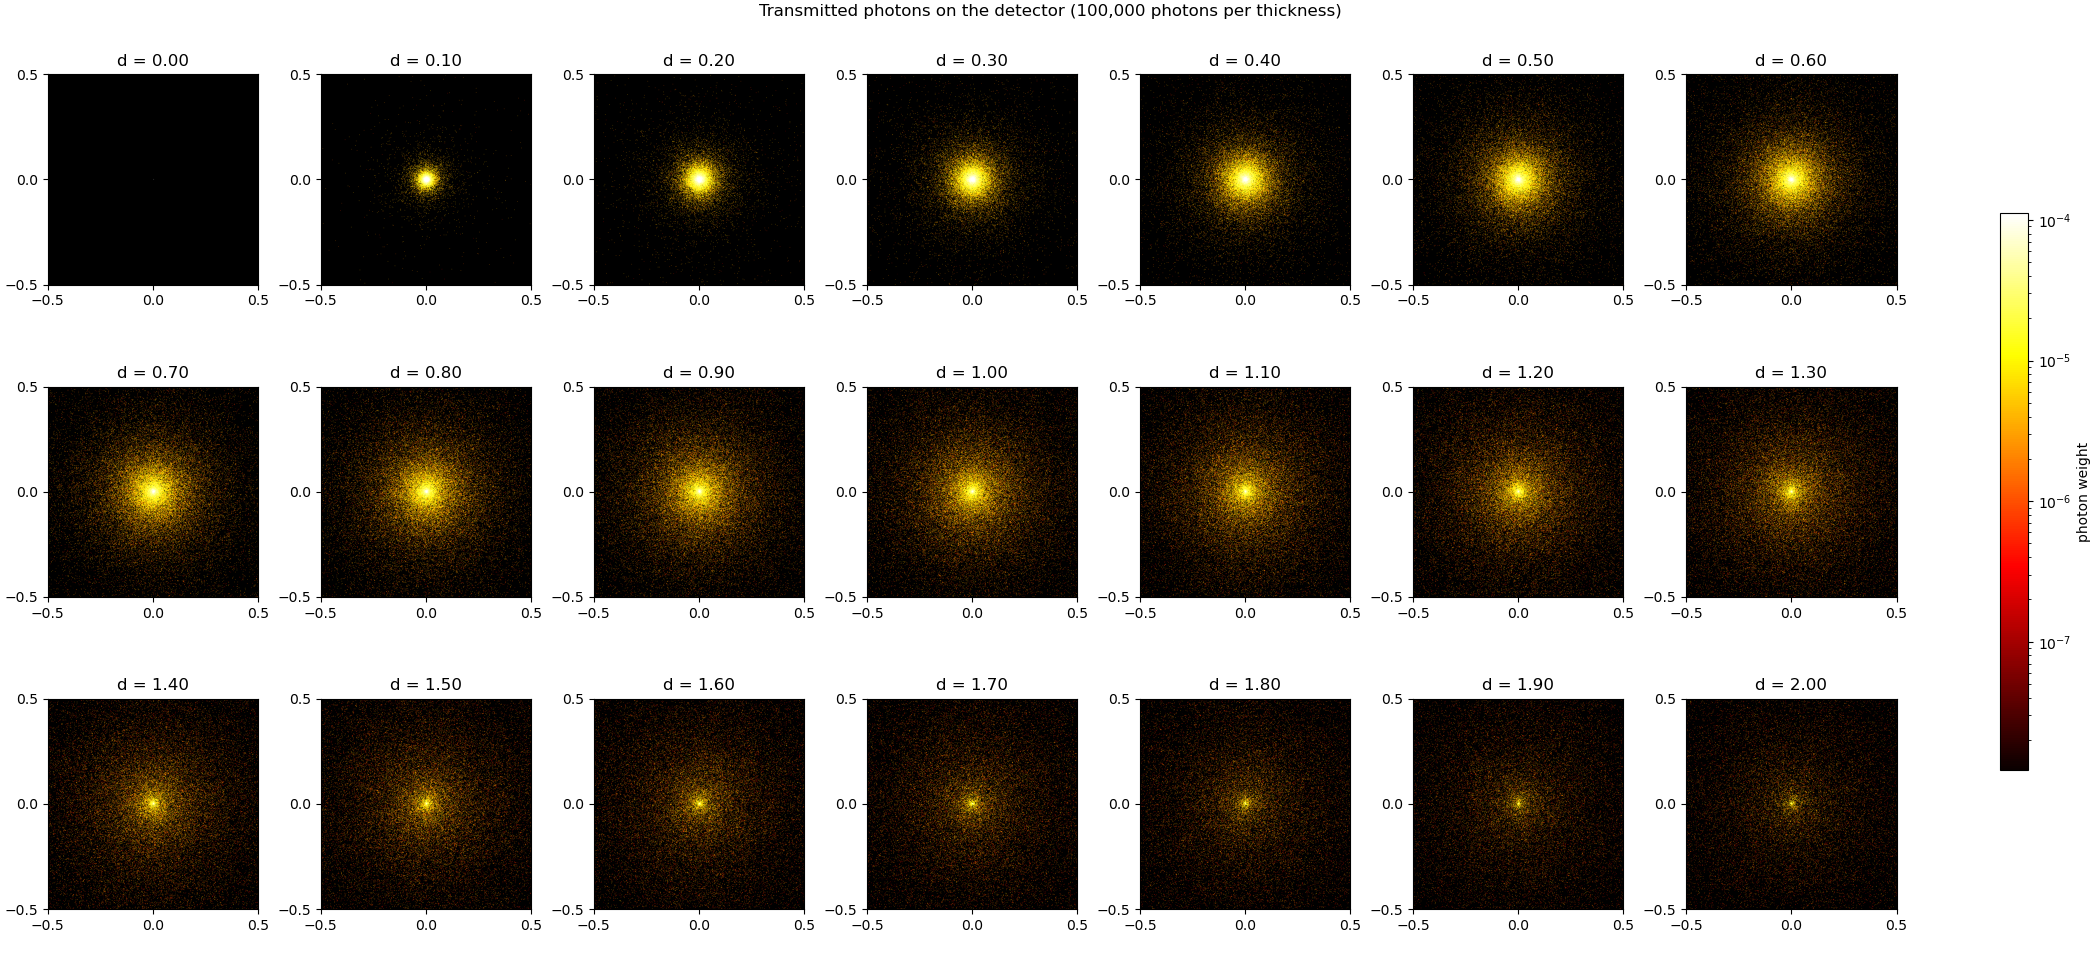
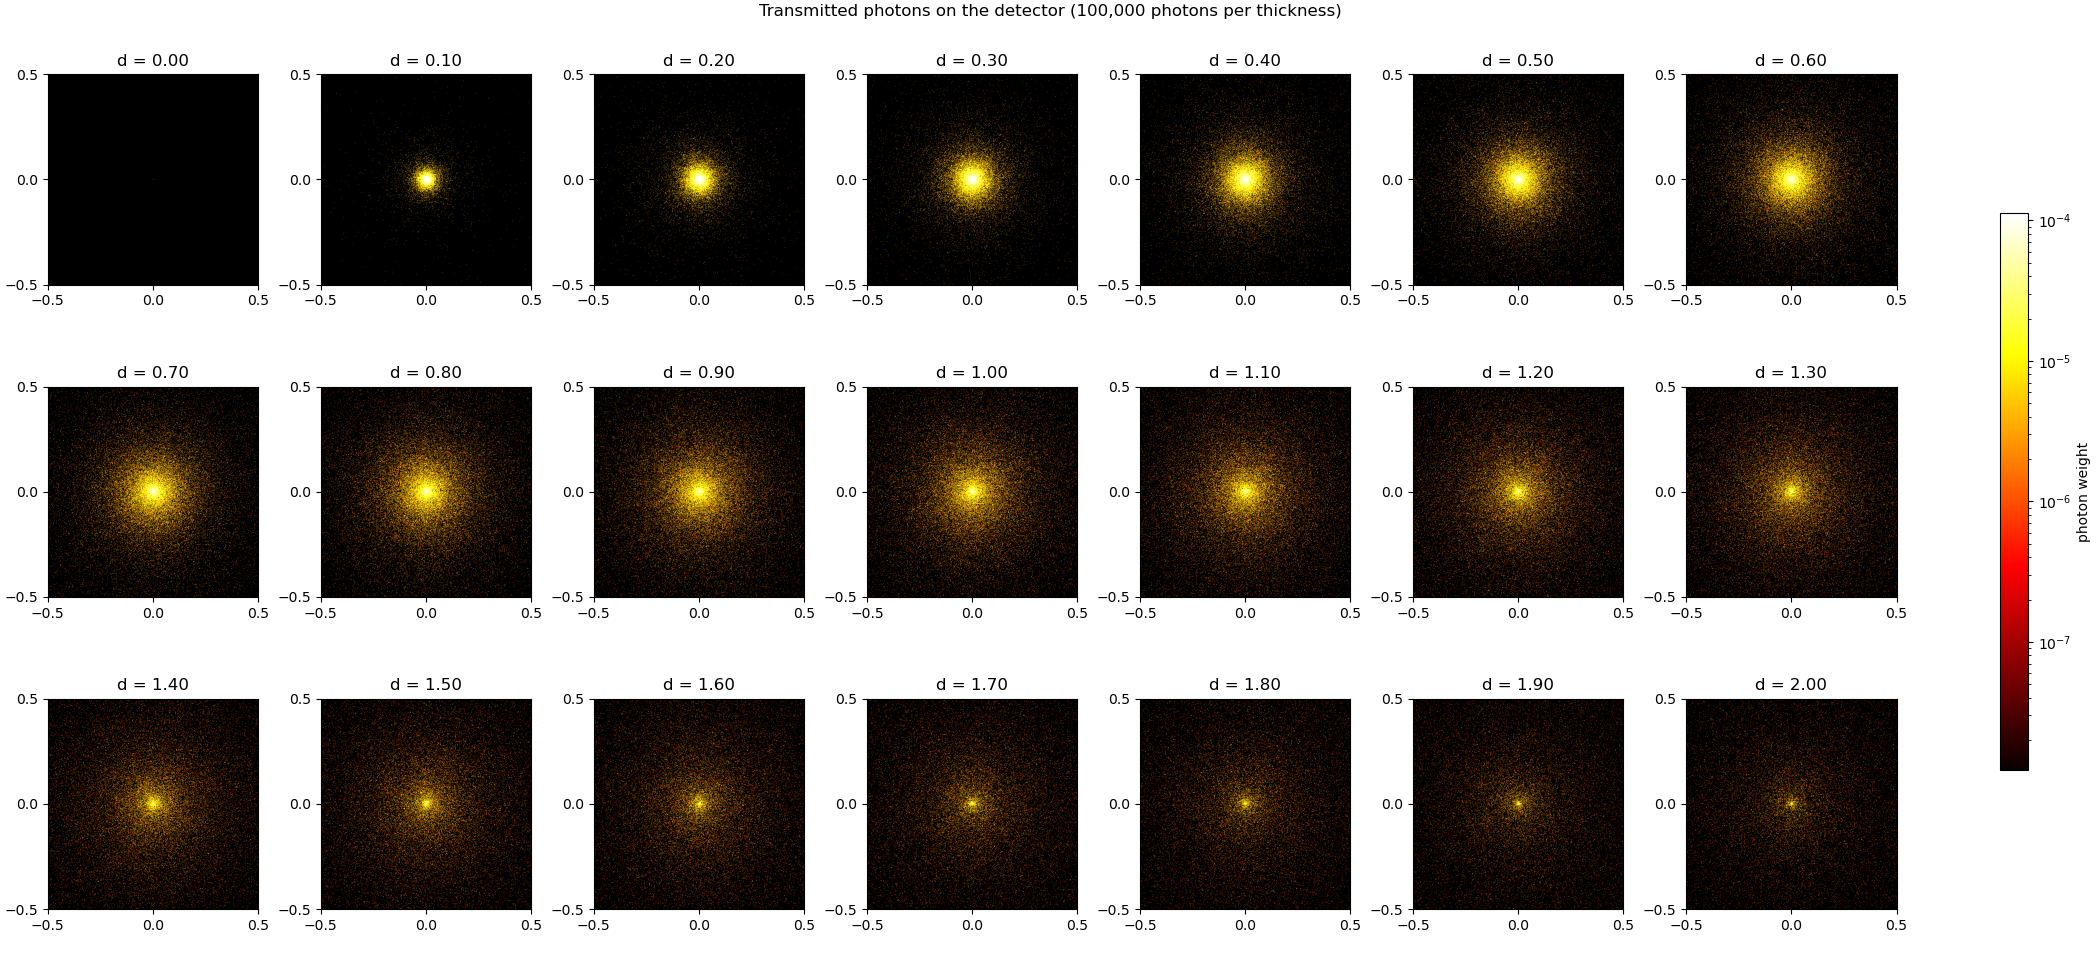
config chages

diff --git a/plot_passes.py b/plot_passes.py
@@ -1,27 +1,44 @@
-import numpy as np
+import os
 
-from config import Config, PlotConfig, PassesStudy
+import numpy as np
+import matplotlib.pyplot as plt
+
+from config import Config
 from particle import simulate
-from plotting import detector_norm, show_detector, make_grid, save
+from plotting import detector_norm, show_detector
+
+thickness = 1.0
+npasses = 16
+snapshot_at = [1, 2, 4, 8, 16]
 
 config = Config()
-plot = PlotConfig()
-study = PassesStudy()
 rng = np.random.default_rng()
+os.makedirs("assets", exist_ok=True)
 
 records = np.zeros((config.height, config.width))
+T_sum = Rd_sum = 0.0
 snapshots = {}
-for p in range(1, study.npasses + 1):
-    r = simulate(study.thickness, config, rng)
+T_mean, Rd_mean = [], []
+
+for p in range(1, npasses + 1):
+    r = simulate(thickness, config, rng)
     records += r.grid
-    if p in study.snapshot_at:
+    T_sum += r.transmittance
+    Rd_sum += r.reflectance
+    T_mean.append(T_sum / p)
+    Rd_mean.append(Rd_sum / p)
+    print(f"pass {p:2d}: T = {T_mean[-1]:.4f}  Rd = {Rd_mean[-1]:.4f}")
+    if p in snapshot_at:
         snapshots[p] = records / p
 
-norm = detector_norm([snapshots[min(snapshots)]], plot)
-fig, axes = make_grid(len(snapshots), len(snapshots), plot)
-for ax, (p, img) in zip(axes.flat, snapshots.items()):
-    im = show_detector(ax, img, norm, config.detector_size, plot)
+norm = detector_norm([snapshots[snapshot_at[0]]])
+
+fig, axes = plt.subplots(1, len(snapshots), figsize=(4 * len(snapshots), 4.6), constrained_layout=True)
+for ax, (p, img) in zip(axes, snapshots.items()):
+    im = show_detector(ax, img, norm, config.detector_size)
     ax.set_title(f"{p} passes ({p * config.photons:,} photons)")
-fig.colorbar(im, ax=axes, shrink=0.8, label=plot.colorbar_label)
-fig.suptitle(f"Progressive refinement, d = {study.thickness}")
-save(fig, study.filename, plot)
+
+fig.colorbar(im, ax=axes, shrink=0.8, label="photon weight")
+fig.savefig("assets/passes_grid.png", dpi=100)
+print("saved assets/passes_grid.png")
+

diff --git a/plotting.py b/plotting.py
@@ -1,44 +1,22 @@
-import os
-
 import numpy as np
 import matplotlib
 
 matplotlib.use("Agg")
 import matplotlib.pyplot as plt
-from matplotlib.colors import LogNorm, Normalize
+from matplotlib.colors import LogNorm
 
 
-def detector_norm(images, plot):
+def detector_norm(images):
     nonzero = np.concatenate([img[img > 0] for img in images])
-    vmax = np.percentile(nonzero, plot.vmax_percentile)
-    if plot.log_scale:
-        return LogNorm(vmin=nonzero.min(), vmax=vmax, clip=True)
-    return Normalize(vmin=0, vmax=vmax, clip=True)
+    return LogNorm(vmin=nonzero.min(), vmax=np.percentile(nonzero, 99.9), clip=True)
 
 
-def show_detector(ax, image, norm, detector_size, plot):
-    cmap = plt.get_cmap(plot.cmap).copy()
-    cmap.set_bad(plot.empty_color)
+def show_detector(ax, image, norm, detector_size):
+    cmap = plt.get_cmap("hot").copy()
+    cmap.set_bad("black")
     a = detector_size / 2
     im = ax.imshow(np.ma.masked_equal(image, 0), cmap=cmap, norm=norm,
                    origin="lower", extent=[-a, a, -a, a], interpolation_stage="rgba")
-    ax.set_xticks(np.linspace(-a, a, plot.ticks))
-    ax.set_yticks(np.linspace(-a, a, plot.ticks))
+    ax.set_xticks([-a, 0, a])
+    ax.set_yticks([-a, 0, a])
     return im
-
-
-def make_grid(n, cols, plot):
-    """Figure with n subplots in a grid of `cols` columns; unused cells hidden."""
-    rows = -(-n // cols)  # ceil(n / cols)
-    fig, axes = plt.subplots(rows, cols, squeeze=False, constrained_layout=True,
-                             figsize=(plot.panel_size * cols, (plot.panel_size + 0.2) * rows))
-    for ax in axes.flat[n:]:
-        ax.set_visible(False)
-    return fig, axes
-
-
-def save(fig, filename, plot):
-    os.makedirs(plot.output_dir, exist_ok=True)
-    path = os.path.join(plot.output_dir, filename)
-    fig.savefig(path, dpi=plot.dpi)
-    print("saved", path)

diff --git a/config.py b/config.py
@@ -1,12 +1,10 @@
 import numpy as np
-from dataclasses import dataclass, field
-
+from dataclasses import dataclass
 
 @dataclass
 class Config:
-    """Physics: everything simulate() needs."""
     photons: int = 100000
-    width: int = 512
+    width: int = 512;
     height: int = 512
 
     sigma_a: float = 1.0
@@ -16,43 +14,6 @@ class Config:
     detector_size: float = 1.0
     roulette_threshold: float = 0.001
     roulette_survival: float = 0.1
-
-
-@dataclass
-class PlotConfig:
-    """Appearance: everything plotting.py needs."""
-    cmap: str = "hot"
-    empty_color: str = "black"          # colour of cells with no photons
-    vmax_percentile: float = 99.9       # top of colour scale; 100 = true maximum
-    log_scale: bool = True
-    ticks: int = 3                      # tick marks per axis
-    panel_size: float = 3.0             # inches per subplot
-    dpi: int = 100
-    output_dir: str = "assets"
-    colorbar_label: str = "photon weight"
-
-
-@dataclass
-class ThicknessStudy:
-    """plot_thickness.py: one image per thickness."""
-    d_min: float = 0.0
-    d_max: float = 2.0
-    steps: int = 21
-    cols: int = 7                       # rows are computed from steps / cols
-    filename: str = "thickness_grid.png"
-
-    def thicknesses(self):
-        return np.linspace(self.d_min, self.d_max, self.steps)
-
-
-@dataclass
-class PassesStudy:
-    """plot_passes.py: progressive refinement at one thickness."""
-    thickness: float = 1.0
-    npasses: int = 16
-    snapshot_at: list = field(default_factory=lambda: [1, 2, 4, 8, 16])
-    filename: str = "passes_grid.png"
-
 
 @dataclass
 class Result:

diff --git a/plot_thickness.py b/plot_thickness.py
@@ -1,26 +1,31 @@
-import numpy as np
+import os
 
-from config import Config, PlotConfig, ThicknessStudy
+import numpy as np
+import matplotlib.pyplot as plt
+
+from config import Config
 from particle import simulate
-from plotting import detector_norm, show_detector, make_grid, save
+from plotting import detector_norm, show_detector
+
+thicknesses = np.linspace(0.0, 2.0, 21)
+rows, cols = 3, 7
 
 config = Config()
-plot = PlotConfig()
-study = ThicknessStudy()
 rng = np.random.default_rng()
+os.makedirs("assets", exist_ok=True)
 
-thicknesses = study.thicknesses()
 results = []
 for d in thicknesses:
     r = simulate(d, config, rng)
     print(f"d = {d:.2f}  Rd = {r.reflectance:.4f}  T = {r.transmittance:.4f}")
     results.append(r)
 
-norm = detector_norm([r.grid for r in results], plot)
-fig, axes = make_grid(len(results), study.cols, plot)
+norm = detector_norm([r.grid for r in results])
+fig, axes = plt.subplots(rows, cols, figsize=(3 * cols, 3.2 * rows), constrained_layout=True)
 for ax, d, r in zip(axes.flat, thicknesses, results):
-    im = show_detector(ax, r.grid, norm, config.detector_size, plot)
+    im = show_detector(ax, r.grid, norm, config.detector_size)
     ax.set_title(f"d = {d:.2f}")
-fig.colorbar(im, ax=axes, shrink=0.6, label=plot.colorbar_label)
+fig.colorbar(im, ax=axes, shrink=0.6, label="photon weight")
 fig.suptitle(f"Transmitted photons on the detector ({config.photons:,} photons per thickness)")
-save(fig, study.filename, plot)
+fig.savefig("assets/thickness_grid.png", dpi=100)
+print("saved assets/thickness_grid.png")

diff --git a/README.md b/README.md
@@ -68,21 +68,27 @@ the detector images. Each pass adds new photons, so the noise drops as
 
 ## Configuration
 
-All settings are in `config.py`, grouped into dataclasses:
+Physics parameters are in `Config` in `config.py`:
 
-| class | used by | settings |
+| parameter | default | meaning |
 |---|---|---|
-| `Config` | `simulate()` | physics: `photons`, detector `width` / `height` / `detector_size`, `sigma_a`, `sigma_s`, `g`, `roulette_threshold`, `roulette_survival` |
-| `PlotConfig` | `plotting.py` | `cmap`, `empty_color`, `vmax_percentile`, `log_scale`, `ticks`, `panel_size`, `dpi`, `output_dir`, `colorbar_label` |
-| `ThicknessStudy` | `plot_thickness.py` | `d_min`, `d_max`, `steps`, `cols`, `filename` |
-| `PassesStudy` | `plot_passes.py` | `thickness`, `npasses`, `snapshot_at`, `filename` |
+| `photons` | 100000 | photons per simulation |
+| `width`, `height` | 512 | detector resolution in cells |
+| `detector_size` | 1.0 | detector width in slab units, centred on the beam |
+| `sigma_a` | 1.0 | absorption coefficient |
+| `sigma_s` | 1.0 | scattering coefficient |
+| `g` | 0.75 | anisotropy of scattering, -1 < g < 1 (0 = isotropic) |
+| `roulette_threshold` | 0.001 | weight below which Russian roulette starts |
+| `roulette_survival` | 0.1 | survival probability in Russian roulette |
 
 Change the defaults in `config.py`, or override them in a script:
 
 ```python
-plot = PlotConfig(cmap="viridis", dpi=200)
-study = ThicknessStudy(d_max=5.0, steps=12, cols=4)
+config = Config(photons=1_000_000, g=0.9)
 ```
+
+Thicknesses, number of passes and snapshots are set at the top of
+`plot_thickness.py` and `plot_passes.py`.
 
 ### Why a log colour scale
 
@@ -90,8 +96,8 @@ A fraction exp(-sigma_t * d) of the photons never collide (82 % at d = 0.1 with
 the defaults). They pass straight through
 and all land in the centre cell, which is thousands of times brighter than the
 scattered halo. With a linear scale only that single pixel is visible. The plots
-therefore use a log scale (`log_scale = True`) whose top is the 99.9th percentile of
-the non-empty cells (`vmax_percentile`), so the centre just saturates to white.
+therefore use a log scale whose top is the 99.9th percentile of
+the non-empty cells, so the centre just saturates to white.
 
 ## Results
 
@@ -111,7 +117,7 @@ Values vary by about ±0.001 between runs (Monte Carlo noise).
 | file | purpose |
 |---|---|
 | `particle.py` | the simulation: `simulate()`, scattering, boundaries, detector |
-| `config.py` | all settings, and the `Result` returned by `simulate()` |
-| `plotting.py` | shared plotting helpers (colour scale, detector image, subplot grid, saving) |
+| `config.py` | physics parameters (`Config`) and the `Result` returned by `simulate()` |
+| `plotting.py` | shared plotting helpers (colour scale, detector image) |
 | `plot_thickness.py` | detector images for a range of thicknesses |
 | `plot_passes.py` | progressive refinement at a single thickness |
